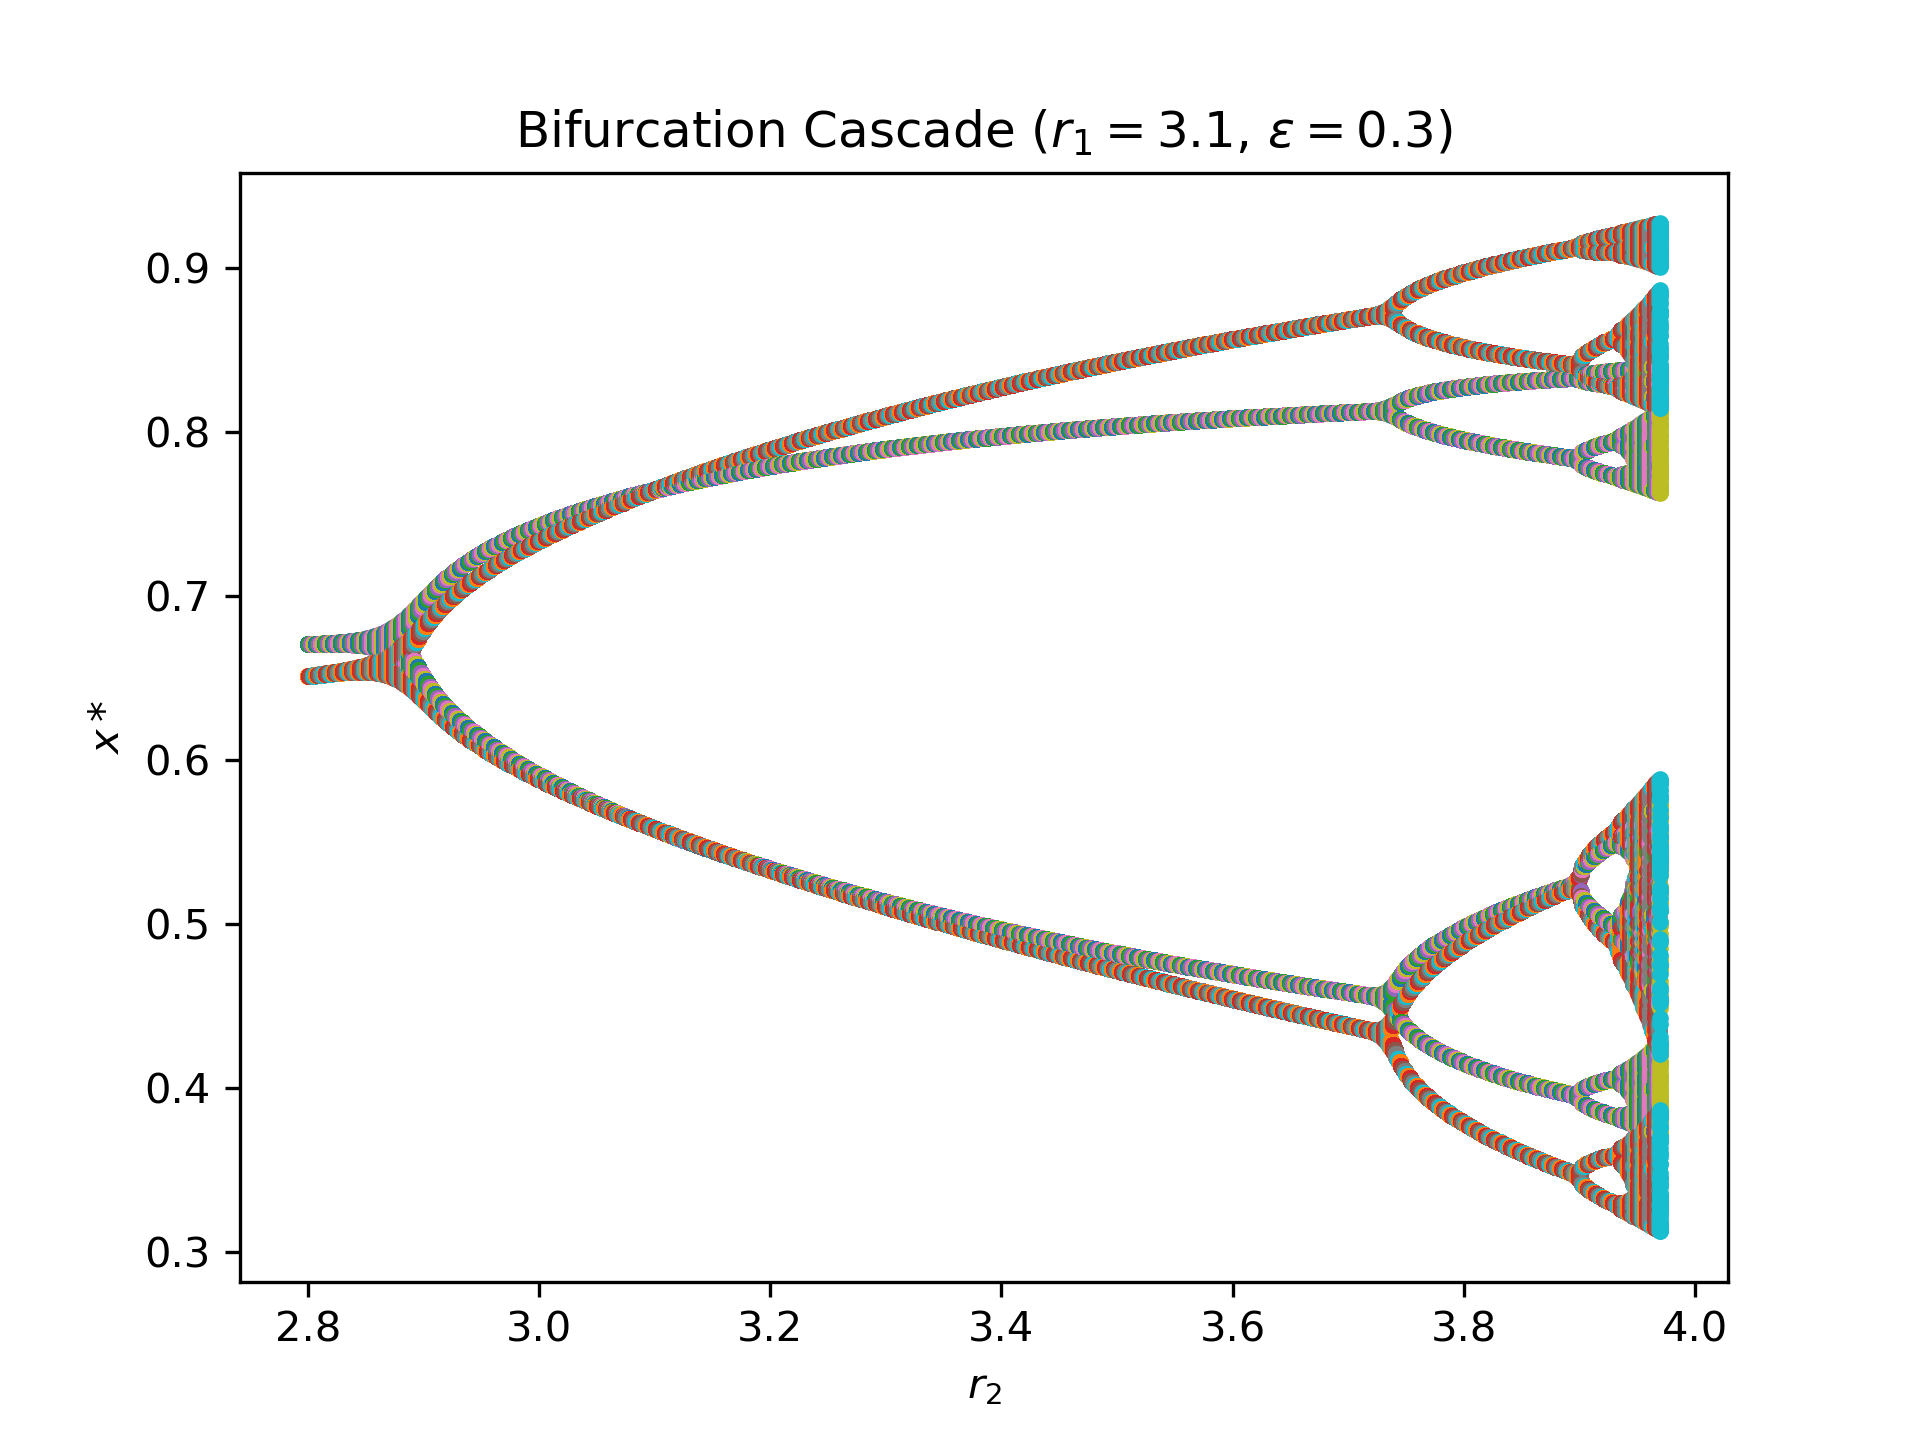
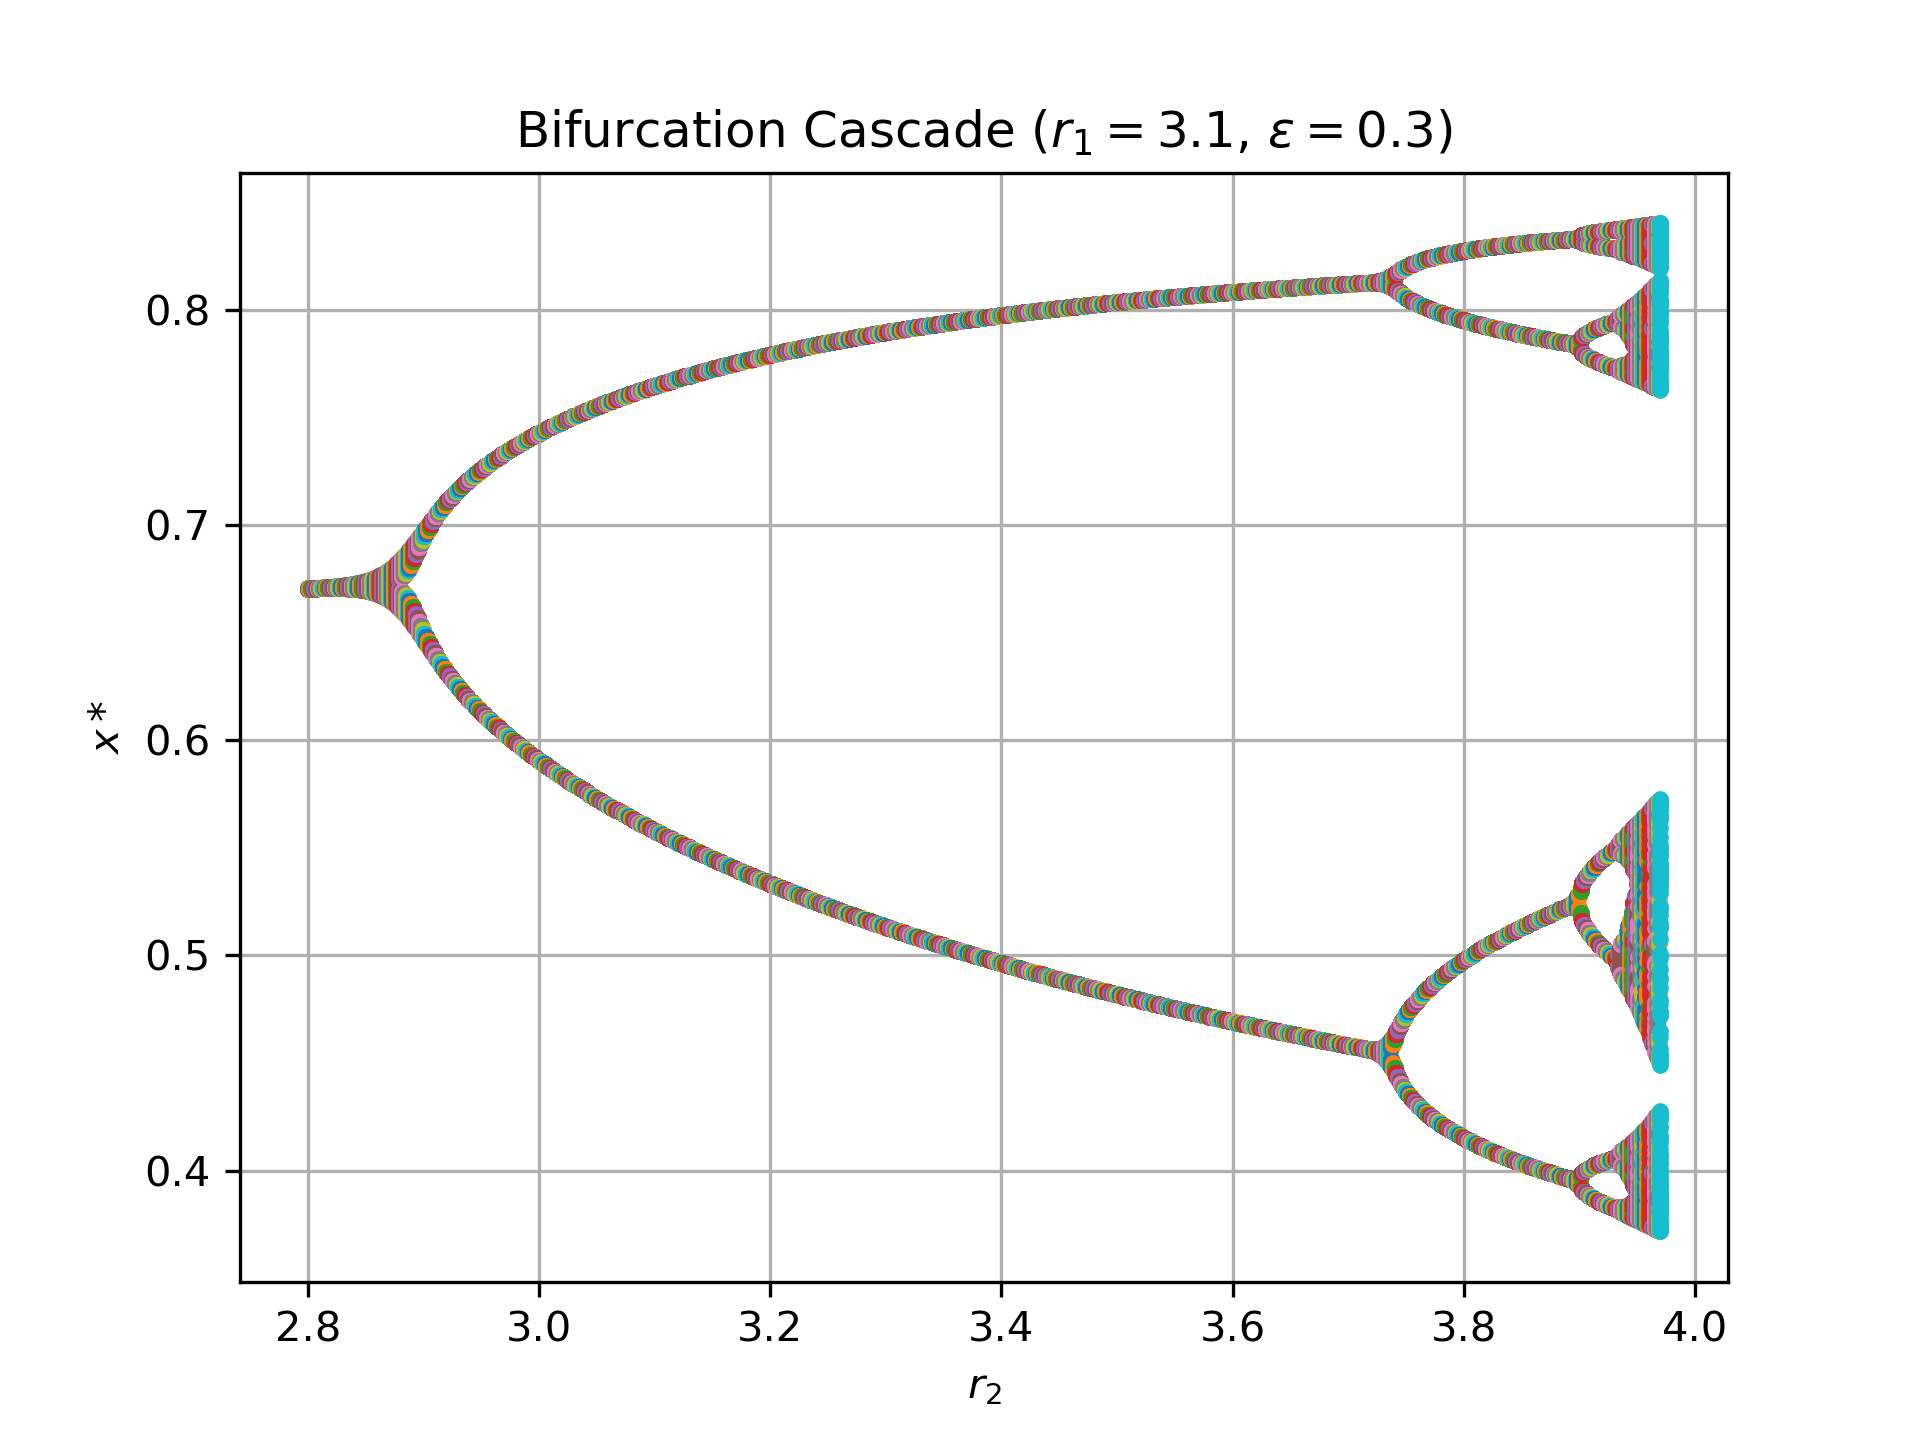
bifurcation results

diff --git a/reports/L1/src/texfiles/results_bifurcation.tex b/reports/L1/src/texfiles/results_bifurcation.tex
@@ -1,10 +1,12 @@
 \subsection{Bifurcation Cascade}
 Figure \ref{fig:bifurcationcascade} shows the bifurcation cascade of the coupled logistic map. At the lowest $r_2$ values, from 2.8 to around 2.87, 
-we can see two branches, which are rather close together. The branches move closer together to higher $r_2$ values. Afterwards, each branch splits again  
+we can see one branch. From $r_2 \approx 2.85$ the branch starts splitting into two and these branches separate from each other. At $r_2 \approx 3.7$ 
+both branches split again so that we have four different branches. Each branch splits again at $r_2 \approx 3.9$. At slightly higher $r_2$ values the 
+branches start splitting faster so that we end up with a point cloud that grows larger with higher $r_2$ values.  
 
 \begin{figure}
     \centering
-    \includegraphics[width=0.8\linewidth]{../figs/bifurcationcascade_grid.png}
+    \includegraphics[width=0.8\linewidth]{../figs/bifurcationcascade.png}
     \caption{Bifurcation cascade for $r_1 = 3.1$ and $\epsilon = 0.3$}
     \label{fig:bifurcationcascade}
 \end{figure}
